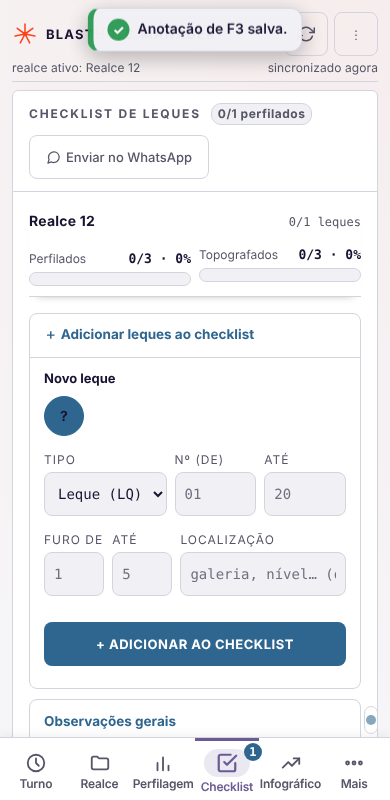
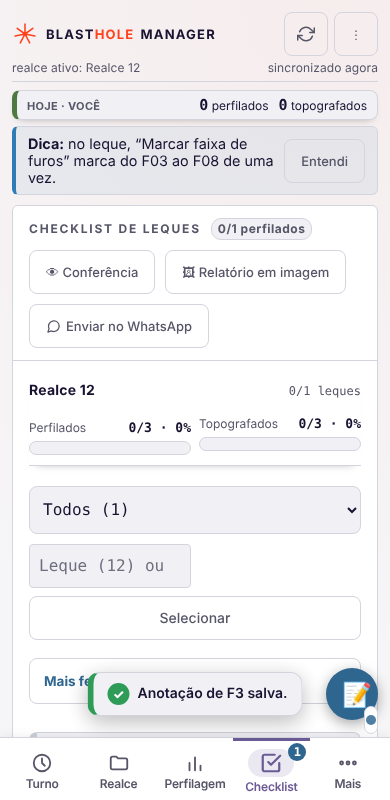
Lembretes rapidos pessoais: painel lateral no PC e botao flutuante no celular
Tabela public.lembretes (RLS por usuario), funciona offline pela fila de envio.

Claude-Session: https://claude.ai/code/session_01EoF6sdRvDQCFsYjtXQzPZF

diff --git a/script-lembretes.js b/script-lembretes.js
@@ -1,0 +1,140 @@
+// ---------- Lembretes rápidos (pessoais) ----------
+// Painel na lateral direita em tela larga; botão flutuante 📝 no celular.
+// Cada pessoa vê só os seus. Funciona sem sinal: vai pela mesma fila de envio das marcações.
+let lembretes = []; // { id, texto, feito, feitoEm, ts }
+let lembretesAberto = false; // só vale no celular (no PC o painel fica fixo, a menos que recolhido)
+let lembretesRecolhido = false;
+const LEMBRETES_PREF_KEY = 'perfilagem-lembretes-recolhido-v1';
+const chaveLembretes = () => 'perfilagem-lembretes-v1:' + (usuarioAtual && usuarioAtual.id || 'anon');
+
+function mapLembrete(r){ return { id: r.id, texto: r.texto || '', feito: !!r.feito, feitoEm: r.feito_em || null, ts: r.criado_em || new Date().toISOString() }; }
+function carregarLembretesLocal(){ try{ lembretes = JSON.parse(localStorage.getItem(chaveLembretes()) || '[]'); }catch(e){ lembretes = []; } }
+function salvarLembretesLocal(){ try{ localStorage.setItem(chaveLembretes(), JSON.stringify(lembretes)); }catch(e){} }
+
+function adicionarLembrete(texto){
+  texto = String(texto || '').trim().slice(0, 500);
+  if(!texto || !usuarioAtual) return;
+  const l = { id: uuidv4(), texto, feito: false, feitoEm: null, ts: new Date().toISOString() };
+  lembretes.push(l);
+  salvarLembretesLocal();
+  enfileirar('lembretes', 'insert', { id: l.id, user_id: usuarioAtual.id, texto: l.texto, feito: false, criado_em: l.ts });
+  renderLembretes();
+}
+function alternarLembrete(id){
+  const l = lembretes.find(x=>x.id===id); if(!l) return;
+  l.feito = !l.feito; l.feitoEm = l.feito ? new Date().toISOString() : null;
+  salvarLembretesLocal();
+  enfileirar('lembretes', 'update', { id, feito: l.feito, feito_em: l.feitoEm });
+  renderLembretes();
+}
+function apagarLembrete(id){
+  lembretes = lembretes.filter(x=>x.id!==id);
+  salvarLembretesLocal();
+  enfileirar('lembretes', 'delete', { id });
+  renderLembretes();
+}
+function limparLembretesFeitos(){
+  const feitos = lembretes.filter(x=>x.feito);
+  if(!feitos.length) return;
+  if(!confirm(`Apagar ${feitos.length} lembrete(s) resolvido(s)?`)) return;
+  feitos.forEach(x=>apagarLembrete(x.id));
+}
+function editarLembrete(id){
+  const l = lembretes.find(x=>x.id===id); if(!l) return;
+  const novo = prompt('Editar lembrete:', l.texto);
+  if(novo === null) return;
+  const t = novo.trim().slice(0, 500);
+  if(!t){ apagarLembrete(id); return; }
+  l.texto = t; salvarLembretesLocal();
+  enfileirar('lembretes', 'update', { id, texto: t });
+  renderLembretes();
+}
+
+function garantirPainelLembretes(){
+  let p = document.getElementById('lembretes-painel');
+  if(p) return p;
+  p = document.createElement('aside'); p.id = 'lembretes-painel'; p.className = 'lembretes-painel'; p.hidden = true;
+  p.setAttribute('aria-label', 'Lembretes rápidos');
+  p.innerHTML = `
+    <div class="lb-topo"><strong>📝 Lembretes</strong><span class="lb-cont" id="lb-cont"></span>
+      <button type="button" class="lb-x" id="lb-fechar" aria-label="Fechar lembretes">✕</button></div>
+    <form class="lb-novo" id="lb-form" autocomplete="off">
+      <input type="text" id="lb-input" maxlength="500" placeholder="Anotar para decidir depois" enterkeyhint="done" aria-label="Novo lembrete">
+      <button type="submit" aria-label="Adicionar lembrete">+</button>
+    </form>
+    <ul class="lb-lista" id="lb-lista"></ul>
+    <details class="lb-feitos" id="lb-feitos"><summary id="lb-feitos-t">Resolvidos</summary>
+      <ul class="lb-lista" id="lb-lista-feitos"></ul>
+      <button type="button" class="lb-limpar" id="lb-limpar">Apagar resolvidos</button></details>`;
+  document.body.appendChild(p);
+  const b = document.createElement('button'); b.type = 'button'; b.id = 'lembretes-fab'; b.className = 'lembretes-fab'; b.hidden = true;
+  b.setAttribute('aria-label', 'Abrir lembretes');
+  b.innerHTML = '<span aria-hidden="true">📝</span><i id="lb-badge" hidden>0</i>';
+  document.body.appendChild(b);
+  const form = p.querySelector('#lb-form'), inp = p.querySelector('#lb-input');
+  form.addEventListener('submit', e=>{ e.preventDefault(); adicionarLembrete(inp.value); inp.value = ''; inp.focus(); });
+  p.querySelector('#lb-fechar').addEventListener('click', ()=>definirLembretesAberto(false));
+  b.addEventListener('click', ()=>definirLembretesAberto(true));
+  p.querySelector('#lb-limpar').addEventListener('click', limparLembretesFeitos);
+  p.addEventListener('click', e=>{
+    const li = e.target.closest('li[data-id]'); if(!li) return;
+    const id = li.dataset.id;
+    if(e.target.closest('.lb-chk')) alternarLembrete(id);
+    else if(e.target.closest('.lb-del')) apagarLembrete(id);
+    else if(e.target.closest('.lb-txt')) editarLembrete(id);
+  });
+  return p;
+}
+const lembretesEhLargo = () => window.matchMedia('(min-width:1101px)').matches;
+function definirLembretesAberto(on){
+  if(lembretesEhLargo()){ lembretesRecolhido = !on; try{ localStorage.setItem(LEMBRETES_PREF_KEY, lembretesRecolhido ? '1' : '0'); }catch(e){} }
+  else lembretesAberto = !!on;
+  renderLembretes();
+  if(on){ const i = document.getElementById('lb-input'); if(i && !lembretesEhLargo()) setTimeout(()=>i.focus(), 50); }
+}
+function renderLembretes(){
+  if(!usuarioAtual) return;
+  const p = garantirPainelLembretes(), fab = document.getElementById('lembretes-fab');
+  const pend = lembretes.filter(x=>!x.feito), feitos = lembretes.filter(x=>x.feito);
+  const largo = lembretesEhLargo();
+  const painelVisivel = largo ? !lembretesRecolhido : lembretesAberto;
+  p.hidden = !painelVisivel;
+  fab.hidden = painelVisivel;
+  document.body.classList.toggle('com-lembretes', largo && painelVisivel);
+  const badge = document.getElementById('lb-badge'); badge.textContent = pend.length > 99 ? '99+' : pend.length; badge.hidden = !pend.length;
+  document.getElementById('lb-cont').textContent = pend.length ? pend.length + ' pendente' + (pend.length>1?'s':'') : '';
+  const item = l => `<li data-id="${l.id}" class="${l.feito?'feito':''}"><button type="button" class="lb-chk" role="checkbox" aria-checked="${l.feito}" aria-label="${l.feito?'Reabrir':'Marcar como resolvido'}"></button><span class="lb-txt" title="Tocar para editar">${escapeHtml(l.texto)}</span><button type="button" class="lb-del" aria-label="Apagar lembrete">✕</button></li>`;
+  const foco = document.activeElement && p.contains(document.activeElement) && document.activeElement.id === 'lb-input';
+  document.getElementById('lb-lista').innerHTML = pend.length ? pend.map(item).join('') : '<li class="lb-vazio">Nada pendente. Anote aqui o que precisa decidir depois.</li>';
+  document.getElementById('lb-lista-feitos').innerHTML = feitos.map(item).join('');
+  document.getElementById('lb-feitos').hidden = !feitos.length;
+  document.getElementById('lb-feitos-t').textContent = `Resolvidos (${feitos.length})`;
+  if(foco) document.getElementById('lb-input').focus();
+}
+function escapeHtml(s){ return String(s).replace(/[&<>"']/g, c=>({'&':'&amp;','<':'&lt;','>':'&gt;','"':'&quot;',"'":'&#39;'}[c])); }
+
+async function sincronizarLembretes(){
+  if(!usuarioAtual || !navigator.onLine) return;
+  if(falhasDeEnvio.size > 0 || debouncesPendentes.size > 0 || enviosEmAndamento > 0) return;
+  const { data, error } = await buscarTudo('lembretes');
+  if(error || !data) return;
+  if(falhasDeEnvio.size > 0 || debouncesPendentes.size > 0 || enviosEmAndamento > 0) return; // algo foi anotado durante a busca
+  const novo = data.map(mapLembrete);
+  if(JSON.stringify(novo) === JSON.stringify(lembretes)) return;
+  lembretes = novo; salvarLembretesLocal(); renderLembretes();
+}
+function iniciarLembretes(){
+  try{ lembretesRecolhido = localStorage.getItem(LEMBRETES_PREF_KEY) === '1'; }catch(e){}
+  carregarLembretesLocal(); renderLembretes();
+  sincronizarLembretes();
+}
+// Depois de cada atualização do servidor, atualiza também os lembretes.
+(function(){
+  const orig = atualizarDoServidor;
+  atualizarDoServidor = async function(){ const r = await orig.apply(this, arguments); try{ await sincronizarLembretes(); }catch(e){} return r; };
+})();
+window.addEventListener('resize', ()=>{ if(usuarioAtual) renderLembretes(); });
+window.addEventListener('online', ()=>{ setTimeout(sincronizarLembretes, 1500); });
+// Entra em cena quando a pessoa loga (usuarioAtual definido).
+let _lbPronto = false;
+setInterval(()=>{ if(usuarioAtual && !_lbPronto){ _lbPronto = true; iniciarLembretes(); } else if(!usuarioAtual && _lbPronto){ _lbPronto = false; lembretes = []; const p = document.getElementById('lembretes-painel'), f = document.getElementById('lembretes-fab'); if(p) p.hidden = true; if(f) f.hidden = true; document.body.classList.remove('com-lembretes'); } }, 500);

diff --git a/style.css b/style.css
@@ -2147,3 +2147,47 @@ body.modo-leitura .checklist-furos-tabela input[type="checkbox"]{ opacity:.8; }
 }
 body.modo-leitura .checklist-leque-card[data-est=ini],
 body.modo-leitura .leque-group[data-est=ini]{ animation:none; }
+
+/* ===== Lembretes rapidos: painel lateral (tela larga) / botao flutuante (celular) ===== */
+.lembretes-painel{ position:fixed; z-index:1400; display:flex; flex-direction:column; gap:8px; background:var(--surface); border:1px solid var(--line); color:var(--text, inherit); box-shadow:0 8px 28px rgba(0,0,0,.28); }
+.lembretes-painel[hidden], .lembretes-fab[hidden]{ display:none; }
+.lb-topo{ display:flex; align-items:center; gap:8px; }
+.lb-topo strong{ font-size:15px; }
+.lb-cont{ font-size:12px; color:var(--muted); flex:1; }
+.lb-x, .lb-del{ background:none; border:none; color:var(--muted); font-size:16px; cursor:pointer; min-width:32px; min-height:32px; padding:0; }
+.lb-novo{ display:flex; gap:6px; }
+.lb-novo input{ flex:1; min-width:0; font-size:16px; padding:10px; border:1px solid var(--line); border-radius:8px; background:var(--surface-2); color:inherit; }
+.lb-novo button{ width:44px; font-size:22px; font-weight:700; border-radius:8px; border:none; background:var(--steel, #2a6fa8); color:#fff; cursor:pointer; }
+.lb-lista{ list-style:none; margin:0; padding:0; display:flex; flex-direction:column; gap:6px; overflow-y:auto; }
+.lb-lista li{ display:flex; align-items:flex-start; gap:8px; padding:8px; border:1px solid var(--line); border-radius:8px; background:var(--surface-2); }
+.lb-lista li.lb-vazio{ border:none; background:none; color:var(--muted); font-size:13px; padding:4px 2px; }
+.lb-chk{ flex:none; width:24px; height:24px; margin-top:1px; border:2px solid var(--muted); border-radius:6px; background:transparent; cursor:pointer; padding:0; }
+li.feito .lb-chk{ background:var(--est-ok, #2e9b57); border-color:var(--est-ok, #2e9b57); }
+li.feito .lb-chk::after{ content:'✓'; color:#fff; font-size:15px; font-weight:800; line-height:1; }
+.lb-txt{ flex:1; min-width:0; font-size:14px; line-height:1.35; word-break:break-word; cursor:text; padding-top:2px; }
+li.feito .lb-txt{ text-decoration:line-through; color:var(--muted); }
+.lb-feitos summary{ cursor:pointer; font-size:13px; color:var(--muted); padding:4px 0; }
+.lb-limpar{ margin-top:6px; font-size:12px; background:none; border:1px solid var(--line); border-radius:8px; padding:6px 10px; color:var(--muted); cursor:pointer; }
+.lembretes-fab{ position:fixed; z-index:1400; width:52px; height:52px; border-radius:50%; border:none; background:var(--steel, #2a6fa8); color:#fff; font-size:24px; box-shadow:0 4px 14px rgba(0,0,0,.35); cursor:pointer; }
+.lembretes-fab i{ position:absolute; top:-4px; right:-4px; min-width:20px; height:20px; padding:0 5px; border-radius:10px; background:#d6453d; color:#fff; font:700 12px/20px var(--mono, monospace); font-style:normal; text-align:center; }
+
+/* celular / tablet: bottom sheet e botao acima da barra de abas */
+.lembretes-painel{ left:8px; right:8px; bottom:calc(70px + env(safe-area-inset-bottom)); max-height:62vh; padding:12px; border-radius:14px; }
+.lembretes-fab{ right:12px; bottom:calc(80px + env(safe-area-inset-bottom)); }
+.lembretes-painel .lb-lista{ max-height:36vh; }
+
+/* tela larga: painel fixo na lateral direita, conteudo cede espaco */
+@media (min-width:1101px){
+  .lembretes-painel{ left:auto; right:0; top:0; bottom:0; width:288px; max-height:none; border-radius:0; border-width:0 0 0 1px; padding:16px 14px; box-shadow:-4px 0 18px rgba(0,0,0,.12); }
+  .lembretes-painel .lb-lista{ max-height:none; flex:0 1 auto; }
+  .lembretes-fab{ right:16px; bottom:56px; }
+  body.com-lembretes{ padding-right:288px; }
+  body.com-lembretes .tabbar{ }
+}
+@media print{ .lembretes-painel, .lembretes-fab{ display:none !important; } body.com-lembretes{ padding-right:0 !important; } }
+.lembretes-painel .lb-chk, .lembretes-painel .lb-del{ width:44px; min-width:44px; height:44px; min-height:44px; margin:-8px -6px -8px -8px; padding:0; border:none; background:transparent; display:inline-flex; align-items:center; justify-content:center; }
+.lembretes-painel .lb-chk::before{ content:''; width:24px; height:24px; border:2px solid var(--muted); border-radius:6px; box-sizing:border-box; display:block; }
+.lembretes-painel li.feito .lb-chk::before{ content:'✓'; background:var(--est-ok,#2e9b57); border-color:var(--est-ok,#2e9b57); color:#fff; font-size:15px; font-weight:800; line-height:20px; text-align:center; }
+.lembretes-painel li.feito .lb-chk::after{ content:none; }
+.lembretes-painel .lb-del{ margin:-8px -8px -8px 0; }
+.lembretes-painel .lb-novo input{ font-family:inherit; }

diff --git a/dash.html b/dash.html
@@ -14,7 +14,7 @@
 <meta name="apple-mobile-web-app-capable" content="yes">
 <meta name="apple-mobile-web-app-title" content="BlastHole">
 <link rel="apple-touch-icon" href="icon-192.png">
-<link rel="stylesheet" href="style.css?v=20261013020000">
+<link rel="stylesheet" href="style.css?v=20261013032000">
 
 </head>
 <body>
@@ -827,14 +827,15 @@
 <script src="https://cdnjs.cloudflare.com/ajax/libs/jspdf/2.5.1/jspdf.umd.min.js"></script>
 <script src="https://cdn.jsdelivr.net/npm/html2canvas@1.4.1/dist/html2canvas.min.js"></script>
 <script src="https://cdn.jsdelivr.net/npm/@supabase/supabase-js@2"></script>
-<script src="script.js?v=20261013020000"></script>
-<script src="script-leques.js?v=20261013020000"></script>
-<script src="script-checklist.js?v=20261013020000"></script>
-<script src="script-fotos.js?v=20261013020000"></script>
-<script src="script-relatorio-imagem.js?v=20261013020000"></script>
-<script src="script-turno-pdf.js?v=20261013020000"></script>
-<script src="script-telas.js?v=20261013020000"></script>
-<script src="script-sessao.js?v=20261013020000"></script>
+<script src="script.js?v=20261013032000"></script>
+<script src="script-leques.js?v=20261013032000"></script>
+<script src="script-checklist.js?v=20261013032000"></script>
+<script src="script-fotos.js?v=20261013032000"></script>
+<script src="script-relatorio-imagem.js?v=20261013032000"></script>
+<script src="script-turno-pdf.js?v=20261013032000"></script>
+<script src="script-telas.js?v=20261013032000"></script>
+<script src="script-sessao.js?v=20261013032000"></script>
+<script src="script-lembretes.js?v=20261013032000"></script>
 <script>
   if(!window.__appCarregado && window.__diagMostrar){
     window.__diagMostrar('script.js não carregou por completo — provavelmente uma versão antiga ou incompleta em cache. Recarregue sem cache.');

diff --git a/sw.js b/sw.js
@@ -6,8 +6,8 @@
  * rede falha ou demora mais de 4 segundos. Nada de dados do Supabase é guardado aqui
  * (os dados ficam no aparelho pelo próprio app, e as alterações pendentes na fila dele).
  */
-const CACHE = 'blasthole-shell-v3';
-const LOCAIS = ['./dash.html', './style.css', './script.js', './script-leques.js', './script-checklist.js', './script-fotos.js', './script-relatorio-imagem.js', './script-turno-pdf.js', './script-telas.js', './script-sessao.js', './manifest.webmanifest', './icon-192.png', './icon-512.png'];
+const CACHE = 'blasthole-shell-v4';
+const LOCAIS = ['./dash.html', './style.css', './script.js', './script-leques.js', './script-checklist.js', './script-fotos.js', './script-relatorio-imagem.js', './script-turno-pdf.js', './script-telas.js', './script-sessao.js', './script-lembretes.js', './manifest.webmanifest', './icon-192.png', './icon-512.png'];
 const CDNS = [
   'https://cdnjs.cloudflare.com/ajax/libs/jspdf/2.5.1/jspdf.umd.min.js',
   'https://cdn.jsdelivr.net/npm/html2canvas@1.4.1/dist/html2canvas.min.js',

diff --git a/script.js b/script.js
@@ -506,7 +506,7 @@ function carregarLocal(){
 const NOME_TABELA_FILA = {
   aneis: 'Realce', leques: 'Leque', furos: 'Furo',
   turno_info: 'Dados do turno', turno_observacoes: 'Observação do turno',
-  usuario_realce_ativo: 'Realce ativo', comunicados: 'Comunicado',
+  usuario_realce_ativo: 'Realce ativo', comunicados: 'Comunicado', lembretes: 'Lembrete',
   checklist_furos: 'Marcação do checklist', checklist_leques: 'Leque do checklist', checklist_observacoes_gerais: 'Observação do checklist',
   equipes: 'Equipe', produtividade_lancamentos: 'Produção da equipe', projetos: 'Projeto', fotos_turno: 'Foto do turno'
 };
